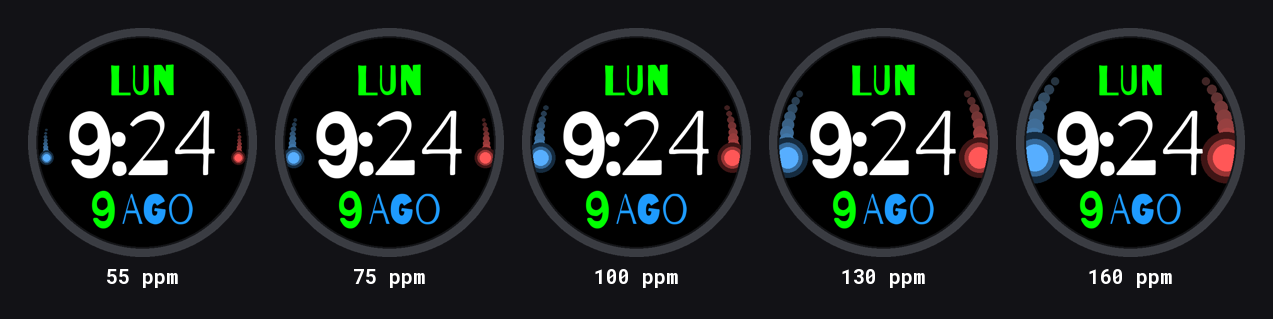
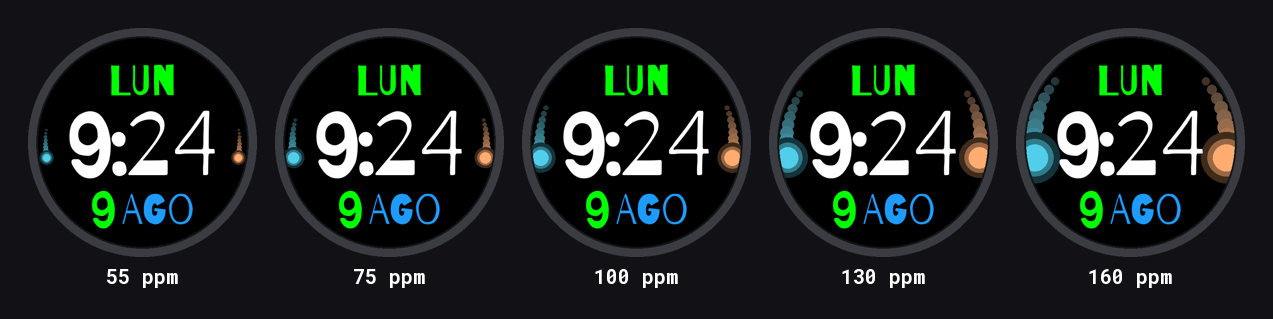
Pulso, PulsoXL: even out the orb colours and rebuild the burst from them
Measured, the warm orb sat at 21.3% luminance against the cool one's 44.5%, so
one read twice as strongly as the other, and the cool orb was within a few
points of the month text. Move them to orange and cyan at 58.5% and 60.5%,
which keeps the warm/cool idea and separates the orb from the date.

The burst was a seven-hue rainbow: unrelated to the two orbs that made it, and
swinging from 13.3% to 82.7% luminance ring to ring, so it flickered as it grew.
Build it from the orb hues instead — cool outside, warm inside, white core.

Claude-Session: https://claude.ai/code/session_01Spqi8874cLT5cy9qNW1EXh

diff --git a/PulsoXL/preview/preview_render.py b/PulsoXL/preview/preview_render.py
@@ -38,9 +38,13 @@ def hsv(h, s, v):
     return (int(r * 255), int(g * 255), int(b * 255))
 
 
+H_WARM, H_COOL = 0.07, 0.53   # naranja y cian, igualados en luminancia
+
+
 def orb_color(t, warm, v=1.0):
     t = max(0.0, min(1.0, t))
-    return hsv(0.0 if warm else 0.58, t ** 0.7, v)
+    s = t ** 0.7
+    return hsv(H_WARM, s * 0.85, v) if warm else hsv(H_COOL, s, v * 0.92)
 
 
 def dot_radius(hr):
@@ -88,11 +92,20 @@ def head(d, deg, t, warm, r_dot):
 
 
 def burst(d, deg, radius, fade):
+    """Los colores de los dos orbes fundiendose: frio fuera, calido despues,
+    nucleo blanco. Antes era un arcoiris, ajeno a los orbes y con el brillo
+    dando tumbos (13% del anillo violeta al 83% del amarillo)."""
     n = 7
     for i in range(n):
         rr = radius * (1.0 - i / float(n))
-        if rr >= 1:
-            dot(d, deg, rr, hsv(i / float(n), 1.0, fade))
+        if rr < 1:
+            continue
+        f = i / float(n - 1)
+        if f < 0.5:
+            col = hsv(H_COOL + (H_WARM - H_COOL) * (f / 0.5), 1.0, fade)
+        else:
+            col = hsv(H_WARM, 1.0 - (f - 0.5) / 0.5, fade)
+        dot(d, deg, rr, col)
 
 
 def draw_pulse(d, beats, hr, dt=1.0, fase="viaje"):

diff --git a/Pulso/preview/preview_render.py b/Pulso/preview/preview_render.py
@@ -37,9 +37,13 @@ def hsv(h, s, v):
     return (int(r * 255), int(g * 255), int(b * 255))
 
 
+H_WARM, H_COOL = 0.07, 0.53   # naranja y cian, igualados en luminancia
+
+
 def orb_color(t, warm, v=1.0):
     t = max(0.0, min(1.0, t))
-    return hsv(0.0 if warm else 0.58, t ** 0.7, v)
+    s = t ** 0.7
+    return hsv(H_WARM, s * 0.85, v) if warm else hsv(H_COOL, s, v * 0.92)
 
 
 def merge_radius(hr):
@@ -83,11 +87,20 @@ def head(d, deg, t, warm):
 
 
 def burst(d, deg, radius, fade):
+    """Los colores de los dos orbes fundiendose: frio fuera, calido despues,
+    nucleo blanco. Antes era un arcoiris, ajeno a los orbes y con el brillo
+    dando tumbos (13% del anillo violeta al 83% del amarillo)."""
     n = 7
     for i in range(n):
         rr = radius * (1.0 - i / float(n))
-        if rr >= 1:
-            dot(d, deg, rr, hsv(i / float(n), 1.0, fade))
+        if rr < 1:
+            continue
+        f = i / float(n - 1)
+        if f < 0.5:
+            col = hsv(H_COOL + (H_WARM - H_COOL) * (f / 0.5), 1.0, fade)
+        else:
+            col = hsv(H_WARM, 1.0 - (f - 0.5) / 0.5, fade)
+        dot(d, deg, rr, col)
 
 
 def draw_pulse(d, beats, hr, dt=1.0, fase="viaje"):

diff --git a/PulsoXL/README.md b/PulsoXL/README.md
@@ -44,3 +44,28 @@ de los números y el orbe se sigue viendo; acortándola, desaparece en ese tramo
 
 Con hora de una cifra (`9:24`) el texto solo llega a x=62..392 y no tapa nada —
 por eso el problema no se ve si solo pruebas con esas horas.
+
+## Los colores de los orbes y del choque
+
+Medida la paleta anterior, salían dos problemas:
+
+| | Color | Luminancia |
+|---|---|---|
+| Orbe cálido | `#FF0000` rojo puro | **21,3%** |
+| Orbe frío | `#0085FF` azul | **44,5%** |
+
+El frío lucía **2,09 veces más** que el cálido, y el rojo puro era lo más
+oscuro de toda la esfera. Además el orbe frío y el mes (`#1E9BFF`) eran
+prácticamente el mismo color: 30 puntos de diferencia en rojo, 22 en verde y
+cero en azul.
+
+Ahora el cálido va al **naranja** (`H_WARM` = 0.07, `#FF8126` al final del
+viaje) y el frío al **cian** (`H_COOL` = 0.53, `#00C0EB`): **58,5%** y
+**60,5%**, relación **1,03 a 1**. La idea de «uno hacia cálidos, otro hacia
+fríos» no cambia; solo se corrige que uno se viera el doble que el otro.
+
+El **estallido** era un arcoíris de siete tonos. No tenía nada que ver con los
+dos orbes que acababan de chocar, y su brillo daba tumbos —del **13,3%** del
+anillo violeta al **82,7%** del amarillo—, así que no crecía: parpadeaba. Ahora
+son los colores de los propios orbes fundiéndose: **frío por fuera, cálido
+después y núcleo blanco**.

diff --git a/README.md b/README.md
@@ -62,14 +62,17 @@ por segundo en alto consumo y solo una vez por minuto en reposo. En Always-On
 no se dibuja el orbe.
 
 En **`Pulso/`** dos orbes nacen blancos del mismo punto y recorren media vuelta
-en sentidos opuestos, ganando color (uno hacia rojos, otro hacia azules). La
+en sentidos opuestos, ganando color: uno hacia el **naranja** y otro hacia el
+**cian**, elegidos para que los dos luzcan igual (antes eran rojo y azul, y el
+azul se veía el doble). La
 **velocidad la marca el pulso**, y la **estela se estira** en proporción: cubre
 el arco recorrido entre fotogramas, así que a 1 fps se lee como un trazo
 continuo en vez de puntos sueltos. Cada punto de la estela conserva el tono que
 tuvo la cabeza en ese instante.
 
-Al encontrarse estalla, **por delante de los textos**, un orbe de **anillos de
-arcoíris cuyo tamaño crece con las pulsaciones**, sin tope: a 60 ppm es un
+Al encontrarse estalla, **por delante de los textos**, un orbe de **anillos con
+los colores de los dos orbes fundiéndose** —frío fuera, cálido después, núcleo
+blanco— **cuyo tamaño crece con las pulsaciones**, sin tope: a 60 ppm es un
 destello discreto y a 160 ppm invade la esfera y tapa la hora unos segundos, a
 propósito, para que no pase desapercibido. Después colapsa y los orbes renacen con los sentidos invertidos.
 
